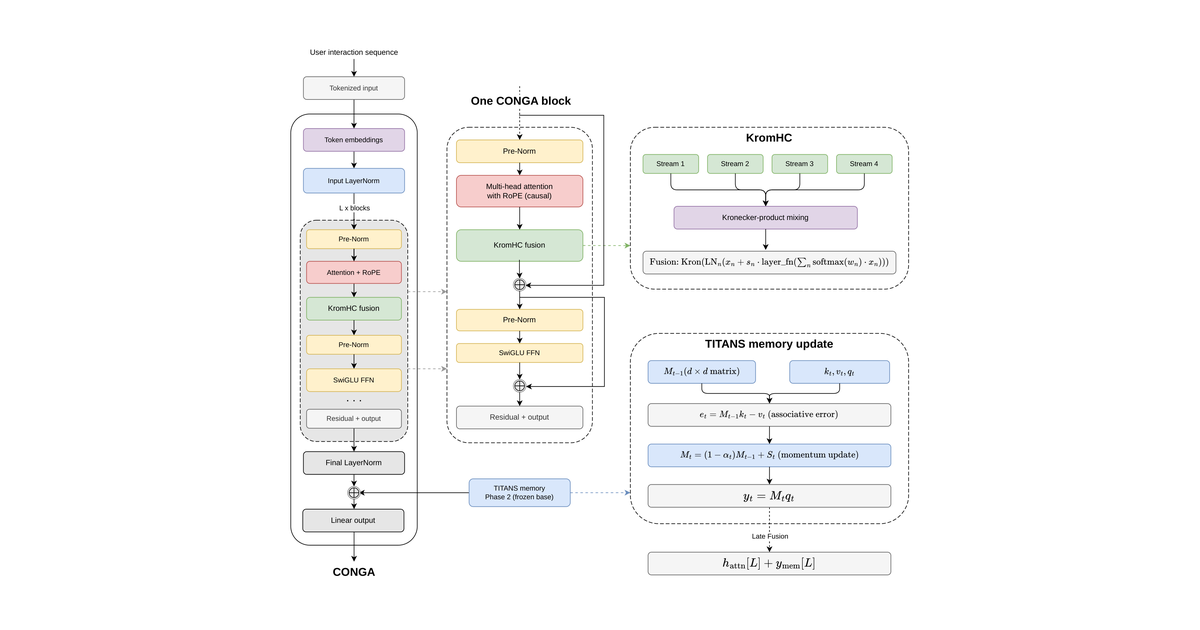
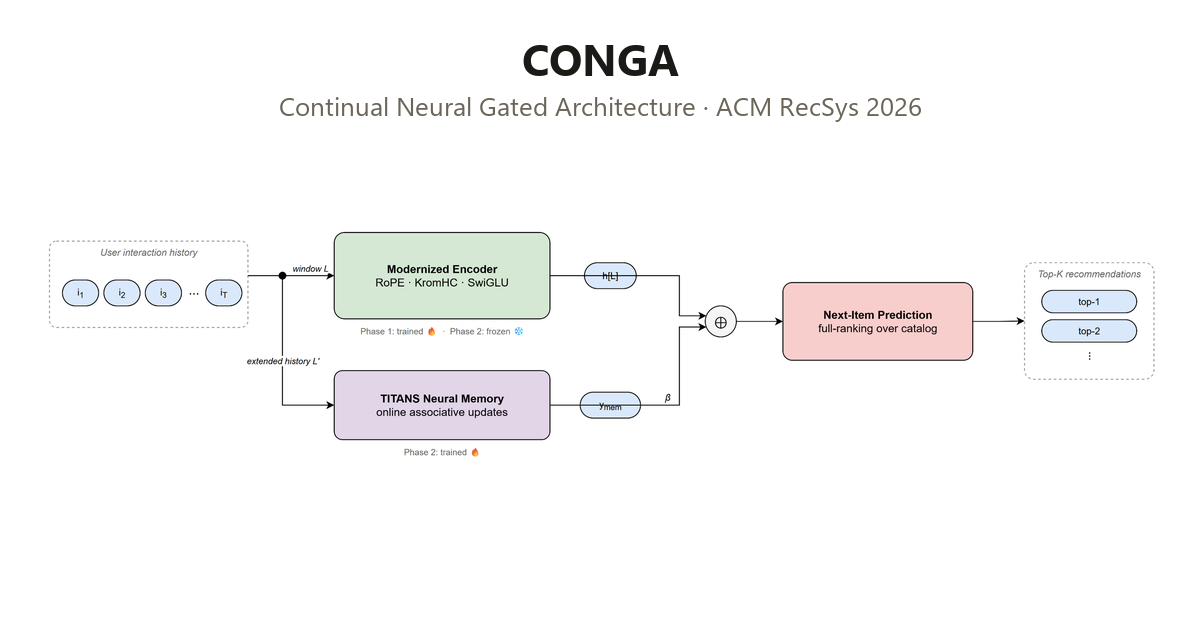
Add simple teaser figure, styled charts, compact per-dataset result tables

diff --git a/index.html b/index.html
@@ -64,6 +64,22 @@
   <!-- Critical CSS - Load synchronously -->
   <link rel="stylesheet" href="static/css/bulma.min.css">
   <link rel="stylesheet" href="static/css/index.css">
+  <style>
+    /* Anthropic-style result tables */
+    .table-clean { background: #faf9f5; font-size: .9rem; border-radius: 10px; overflow: hidden; }
+    .table-clean th, .table-clean td { border: none !important; border-bottom: 1px solid #ece7db !important; padding: .5em .7em; }
+    .table-clean thead th { color: #6b6558; font-weight: 600; border-bottom: 2px solid #d8d2c4 !important; background: transparent; }
+    .table-clean tbody tr:last-child td { border-bottom: none !important; }
+    .table-clean tr.conga-row td { background: #f7e8df; font-weight: 600; }
+    .table-clean tr.conga-row td:first-child { color: #c65a35; }
+    .dataset-card { background: #faf9f5; border: 1px solid #ece7db; border-radius: 12px; padding: 1.1rem 1.2rem; height: 100%; }
+    .dataset-card h4 { margin-bottom: .2rem !important; }
+    .dataset-card .regime { color: #6b6558; font-size: .82rem; margin-bottom: .6rem; }
+    .dataset-card .table-clean { font-size: .8rem; }
+    .dataset-card .table-clean th, .dataset-card .table-clean td { padding: .42em .45em; white-space: nowrap; }
+    .dataset-card small { font-size: .68em; color: #8a8578; }
+    .delta-row td { color: #c65a35; font-size: .72rem; font-weight: 600; background: transparent !important; }
+  </style>
 
   <!-- Non-critical CSS - Load asynchronously -->
   <link rel="preload" href="static/css/bulma-carousel.min.css" as="style" onload="this.onload=null;this.rel='stylesheet'">
@@ -199,7 +215,7 @@
 <section class="hero teaser">
   <div class="container is-max-desktop">
     <div class="hero-body">
-      <img src="static/images/architecture.png" alt="CONGA architecture overview: RoPE, KromHC multi-stream fusion, and TITANS two-phase memory on a modernized SASRec backbone." style="width:100%; height:auto;">
+      <img src="static/images/conga-overview.png" alt="CONGA pipeline: user interaction history feeds a modernized encoder (RoPE, KromHC, SwiGLU) and a TITANS neural memory; their outputs are fused for next-item prediction." style="width:100%; height:auto;">
       <h2 class="subtitle has-text-centered">
         CONGA layers three contributions on a modernized SASRec backbone &mdash; <b>RoPE</b> for norm-preserving positional encoding, <b>KromHC</b> multi-stream fusion with data-adaptive stream selection, and a <b>TITANS</b> two-phase neural memory &mdash; achieving up to <b>+18.7% HR@5</b> over the strongest baseline on ML-1M.
       </h2>
@@ -262,6 +278,10 @@
         </div>
         <div id="method-carousel" class="carousel results-carousel">
           <div class="item">
+            <img src="static/images/architecture.png" alt="Full CONGA architecture as presented in the paper" loading="lazy"/>
+            <h2 class="subtitle has-text-centered">Full CONGA architecture as presented in the paper: encoder stack, KromHC internals, and TITANS memory update.</h2>
+          </div>
+          <div class="item">
             <img src="static/images/fig-pipeline.png" alt="CONGA training pipeline overview" loading="lazy"/>
             <h2 class="subtitle has-text-centered">End-to-end pipeline: modernized SASRec backbone with RoPE, KromHC, and SwiGLU, followed by two-phase TITANS training.</h2>
           </div>
@@ -291,67 +311,107 @@
       <div class="column is-four-fifths">
         <h2 class="title is-3">Results</h2>
         <div class="content">
-          <p>Evaluated under full-ranking (no negative sampling) against nine baselines, CONGA ranks first on <b>14 of 16</b> accuracy metrics. <b>Bold</b> = best, <u>underline</u> = second best; &Delta; = relative gain of CONGA over the strongest baseline:</p>
+          <p>Evaluated under full-ranking (no negative sampling) against nine baselines, CONGA ranks first on <b>14 of 16</b> accuracy metrics:</p>
 
-          <div class="table-container">
-            <table class="table is-bordered is-striped is-fullwidth has-text-right" style="font-size: 0.85rem;">
-              <thead>
-                <tr>
-                  <th class="has-text-left">Dataset</th>
-                  <th class="has-text-left">Metric</th>
-                  <th>Caser<br><small>WSDM'18</small></th>
-                  <th>GRU4Rec<br><small>ICLR'16</small></th>
-                  <th>SASRec<br><small>ICDM'18</small></th>
-                  <th>BERT4Rec<br><small>CIKM'19</small></th>
-                  <th>FMLPRec<br><small>WWW'22</small></th>
-                  <th>DuoRec<br><small>WSDM'22</small></th>
-                  <th>FEARec<br><small>SIGIR'23</small></th>
-                  <th>BSARec<br><small>AAAI'24</small></th>
-                  <th>WEARec<br><small>arXiv'25</small></th>
-                  <th style="background:#fff8e1;">CONGA<br><small>ours</small></th>
-                  <th>&Delta;</th>
-                </tr>
-              </thead>
-              <tbody>
-                <tr><td rowspan="4" class="has-text-left"><b>Beauty</b></td>
-                    <td class="has-text-left">HR@5</td><td>0.0125</td><td>0.0169</td><td>0.0340</td><td>0.0469</td><td>0.0346</td><td><u>0.0707</u></td><td>0.0706</td><td>0.0694</td><td>0.0691</td><td style="background:#fff8e1;"><b>0.0718</b></td><td>+1.56%</td></tr>
-                <tr><td class="has-text-left">HR@10</td><td>0.0225</td><td>0.0304</td><td>0.0531</td><td>0.0705</td><td>0.0559</td><td>0.0965</td><td><b>0.0982</b></td><td>0.0971</td><td>0.0948</td><td style="background:#fff8e1;"><u>0.0965</u></td><td class="has-text-danger">-1.73%</td></tr>
-                <tr><td class="has-text-left">NDCG@5</td><td>0.0076</td><td>0.0104</td><td>0.0221</td><td>0.0311</td><td>0.0222</td><td>0.0501</td><td><u>0.0512</u></td><td>0.0495</td><td>0.0490</td><td style="background:#fff8e1;"><b>0.0515</b></td><td>+0.59%</td></tr>
-                <tr><td class="has-text-left">NDCG@10</td><td>0.0108</td><td>0.0147</td><td>0.0283</td><td>0.0387</td><td>0.0291</td><td>0.0584</td><td><b>0.0601</b></td><td>0.0585</td><td>0.0573</td><td style="background:#fff8e1;"><u>0.0594</u></td><td class="has-text-danger">-1.16%</td></tr>
-                <tr><td rowspan="4" class="has-text-left"><b>Yelp</b></td>
-                    <td class="has-text-left">HR@5</td><td>0.0117</td><td>0.0130</td><td>0.0149</td><td>0.0256</td><td>0.0159</td><td>0.0271</td><td>0.0262</td><td>0.0453</td><td><u>0.0492</u></td><td style="background:#fff8e1;"><b>0.0551</b></td><td>+11.99%</td></tr>
-                <tr><td class="has-text-left">HR@10</td><td>0.0197</td><td>0.0221</td><td>0.0249</td><td>0.0433</td><td>0.0287</td><td>0.0442</td><td>0.0437</td><td>0.0724</td><td><u>0.0781</u></td><td style="background:#fff8e1;"><b>0.0901</b></td><td>+15.36%</td></tr>
-                <tr><td class="has-text-left">NDCG@5</td><td>0.0070</td><td>0.0080</td><td>0.0091</td><td>0.0159</td><td>0.0100</td><td>0.0170</td><td>0.0165</td><td>0.0293</td><td><u>0.0320</u></td><td style="background:#fff8e1;"><b>0.0355</b></td><td>+10.94%</td></tr>
-                <tr><td class="has-text-left">NDCG@10</td><td>0.0096</td><td>0.0109</td><td>0.0123</td><td>0.0216</td><td>0.0142</td><td>0.0225</td><td>0.0221</td><td>0.0380</td><td><u>0.0412</u></td><td style="background:#fff8e1;"><b>0.0467</b></td><td>+13.35%</td></tr>
-                <tr><td rowspan="4" class="has-text-left"><b>ML-1M</b></td>
-                    <td class="has-text-left">HR@5</td><td>0.0927</td><td>0.1005</td><td>0.1374</td><td>0.1512</td><td>0.1316</td><td>0.1838</td><td>0.1834</td><td>0.1944</td><td><u>0.2051</u></td><td style="background:#fff8e1;"><b>0.2435</b></td><td>+18.72%</td></tr>
-                <tr><td class="has-text-left">HR@10</td><td>0.1556</td><td>0.1657</td><td>0.2137</td><td>0.2346</td><td>0.2065</td><td>0.2704</td><td>0.2705</td><td>0.2757</td><td><u>0.2987</u></td><td style="background:#fff8e1;"><b>0.3402</b></td><td>+13.89%</td></tr>
-                <tr><td class="has-text-left">NDCG@5</td><td>0.0592</td><td>0.0619</td><td>0.0873</td><td>0.1021</td><td>0.0846</td><td>0.1252</td><td>0.1236</td><td>0.1306</td><td><u>0.1393</u></td><td style="background:#fff8e1;"><b>0.1700</b></td><td>+22.04%</td></tr>
-                <tr><td class="has-text-left">NDCG@10</td><td>0.0795</td><td>0.0828</td><td>0.1116</td><td>0.1289</td><td>0.1087</td><td>0.1530</td><td>0.1516</td><td>0.1568</td><td><u>0.1694</u></td><td style="background:#fff8e1;"><b>0.2012</b></td><td>+18.77%</td></tr>
-                <tr><td rowspan="4" class="has-text-left"><b>Steam</b></td>
-                    <td class="has-text-left">HR@5</td><td>0.0304</td><td>0.0606</td><td>0.0683</td><td>0.0645</td><td>0.0464</td><td><u>0.0754</u></td><td>0.0701</td><td>0.0694</td><td>0.0700</td><td style="background:#fff8e1;"><b>0.0779</b></td><td>+3.32%</td></tr>
-                <tr><td class="has-text-left">HR@10</td><td>0.0533</td><td>0.1021</td><td>0.1105</td><td>0.1054</td><td>0.0772</td><td><u>0.1201</u></td><td>0.1108</td><td>0.1101</td><td>0.1101</td><td style="background:#fff8e1;"><b>0.1275</b></td><td>+6.16%</td></tr>
-                <tr><td class="has-text-left">NDCG@5</td><td>0.0190</td><td>0.0380</td><td>0.0431</td><td>0.0417</td><td>0.0300</td><td><u>0.0503</u></td><td>0.0455</td><td>0.0455</td><td>0.0459</td><td style="background:#fff8e1;"><b>0.0513</b></td><td>+1.99%</td></tr>
-                <tr><td class="has-text-left">NDCG@10</td><td>0.0263</td><td>0.0514</td><td>0.0567</td><td>0.0548</td><td>0.0398</td><td><u>0.0646</u></td><td>0.0584</td><td>0.0585</td><td>0.0588</td><td style="background:#fff8e1;"><b>0.0672</b></td><td>+4.02%</td></tr>
-              </tbody>
-            </table>
-          </div>
+          <img src="static/images/chart-ndcg10.png" alt="NDCG@10 comparison across ML-1M, Yelp, Steam, and Beauty: CONGA leads on three of four datasets" loading="lazy" style="width:100%; height:auto;"/>
 
-          <div class="columns is-vcentered">
-            <div class="column has-text-centered">
-              <img src="static/images/length-comparison.png" alt="Performance comparison across sequence lengths" loading="lazy" style="height:320px; width:auto; max-width:100%; object-fit:contain;"/>
-              <p class="is-size-7 has-text-grey">NDCG@10 across user-history length bins.</p>
+          <p style="margin-top:1.5rem;">Full results per dataset (<b>bold</b> = best, <u>underline</u> = second best; &Delta; = relative gain of CONGA over the strongest baseline):</p>
+
+          <div class="columns is-multiline">
+            <div class="column is-half">
+              <div class="dataset-card">
+                <h4 class="title is-5">ML-1M</h4>
+                <p class="regime">dense, long-history &middot; avg. len. 165.6</p>
+                <table class="table is-fullwidth table-clean has-text-right">
+                  <thead><tr><th class="has-text-left">Model</th><th>HR@5</th><th>HR@10</th><th>N@5</th><th>N@10</th></tr></thead>
+                  <tbody>
+                    <tr><td class="has-text-left">Caser <small>[WSDM'18]</small></td><td>0.0927</td><td>0.1556</td><td>0.0592</td><td>0.0795</td></tr>
+                    <tr><td class="has-text-left">GRU4Rec <small>[ICLR'16]</small></td><td>0.1005</td><td>0.1657</td><td>0.0619</td><td>0.0828</td></tr>
+                    <tr><td class="has-text-left">SASRec <small>[ICDM'18]</small></td><td>0.1374</td><td>0.2137</td><td>0.0873</td><td>0.1116</td></tr>
+                    <tr><td class="has-text-left">BERT4Rec <small>[CIKM'19]</small></td><td>0.1512</td><td>0.2346</td><td>0.1021</td><td>0.1289</td></tr>
+                    <tr><td class="has-text-left">FMLPRec <small>[WWW'22]</small></td><td>0.1316</td><td>0.2065</td><td>0.0846</td><td>0.1087</td></tr>
+                    <tr><td class="has-text-left">DuoRec <small>[WSDM'22]</small></td><td>0.1838</td><td>0.2704</td><td>0.1252</td><td>0.1530</td></tr>
+                    <tr><td class="has-text-left">FEARec <small>[SIGIR'23]</small></td><td>0.1834</td><td>0.2705</td><td>0.1236</td><td>0.1516</td></tr>
+                    <tr><td class="has-text-left">BSARec <small>[AAAI'24]</small></td><td>0.1944</td><td>0.2757</td><td>0.1306</td><td>0.1568</td></tr>
+                    <tr><td class="has-text-left">WEARec <small>[arXiv'25]</small></td><td><u>0.2051</u></td><td><u>0.2987</u></td><td><u>0.1393</u></td><td><u>0.1694</u></td></tr>
+                    <tr class="conga-row"><td class="has-text-left">CONGA (ours)</td><td><b>0.2435</b></td><td><b>0.3402</b></td><td><b>0.1700</b></td><td><b>0.2012</b></td></tr>
+                    <tr class="delta-row"><td class="has-text-left">&Delta; vs best baseline</td><td>+18.72%</td><td>+13.89%</td><td>+22.04%</td><td>+18.77%</td></tr>
+                  </tbody>
+                </table>
+              </div>
             </div>
-            <div class="column has-text-centered">
-              <img src="static/images/model-comparison.png" alt="Performance comparison across baseline models" loading="lazy" style="height:320px; width:auto; max-width:100%; object-fit:contain;"/>
-              <p class="is-size-7 has-text-grey">Accuracy comparison against baseline models.</p>
+            <div class="column is-half">
+              <div class="dataset-card">
+                <h4 class="title is-5">Yelp</h4>
+                <p class="regime">sparse, short-history &middot; avg. len. 10.4</p>
+                <table class="table is-fullwidth table-clean has-text-right">
+                  <thead><tr><th class="has-text-left">Model</th><th>HR@5</th><th>HR@10</th><th>N@5</th><th>N@10</th></tr></thead>
+                  <tbody>
+                    <tr><td class="has-text-left">Caser <small>[WSDM'18]</small></td><td>0.0117</td><td>0.0197</td><td>0.0070</td><td>0.0096</td></tr>
+                    <tr><td class="has-text-left">GRU4Rec <small>[ICLR'16]</small></td><td>0.0130</td><td>0.0221</td><td>0.0080</td><td>0.0109</td></tr>
+                    <tr><td class="has-text-left">SASRec <small>[ICDM'18]</small></td><td>0.0149</td><td>0.0249</td><td>0.0091</td><td>0.0123</td></tr>
+                    <tr><td class="has-text-left">BERT4Rec <small>[CIKM'19]</small></td><td>0.0256</td><td>0.0433</td><td>0.0159</td><td>0.0216</td></tr>
+                    <tr><td class="has-text-left">FMLPRec <small>[WWW'22]</small></td><td>0.0159</td><td>0.0287</td><td>0.0100</td><td>0.0142</td></tr>
+                    <tr><td class="has-text-left">DuoRec <small>[WSDM'22]</small></td><td>0.0271</td><td>0.0442</td><td>0.0170</td><td>0.0225</td></tr>
+                    <tr><td class="has-text-left">FEARec <small>[SIGIR'23]</small></td><td>0.0262</td><td>0.0437</td><td>0.0165</td><td>0.0221</td></tr>
+                    <tr><td class="has-text-left">BSARec <small>[AAAI'24]</small></td><td>0.0453</td><td>0.0724</td><td>0.0293</td><td>0.0380</td></tr>
+                    <tr><td class="has-text-left">WEARec <small>[arXiv'25]</small></td><td><u>0.0492</u></td><td><u>0.0781</u></td><td><u>0.0320</u></td><td><u>0.0412</u></td></tr>
+                    <tr class="conga-row"><td class="has-text-left">CONGA (ours)</td><td><b>0.0551</b></td><td><b>0.0901</b></td><td><b>0.0355</b></td><td><b>0.0467</b></td></tr>
+                    <tr class="delta-row"><td class="has-text-left">&Delta; vs best baseline</td><td>+11.99%</td><td>+15.36%</td><td>+10.94%</td><td>+13.35%</td></tr>
+                  </tbody>
+                </table>
+              </div>
+            </div>
+            <div class="column is-half">
+              <div class="dataset-card">
+                <h4 class="title is-5">Steam</h4>
+                <p class="regime">sparse &middot; avg. len. 14.2</p>
+                <table class="table is-fullwidth table-clean has-text-right">
+                  <thead><tr><th class="has-text-left">Model</th><th>HR@5</th><th>HR@10</th><th>N@5</th><th>N@10</th></tr></thead>
+                  <tbody>
+                    <tr><td class="has-text-left">Caser <small>[WSDM'18]</small></td><td>0.0304</td><td>0.0533</td><td>0.0190</td><td>0.0263</td></tr>
+                    <tr><td class="has-text-left">GRU4Rec <small>[ICLR'16]</small></td><td>0.0606</td><td>0.1021</td><td>0.0380</td><td>0.0514</td></tr>
+                    <tr><td class="has-text-left">SASRec <small>[ICDM'18]</small></td><td>0.0683</td><td>0.1105</td><td>0.0431</td><td>0.0567</td></tr>
+                    <tr><td class="has-text-left">BERT4Rec <small>[CIKM'19]</small></td><td>0.0645</td><td>0.1054</td><td>0.0417</td><td>0.0548</td></tr>
+                    <tr><td class="has-text-left">FMLPRec <small>[WWW'22]</small></td><td>0.0464</td><td>0.0772</td><td>0.0300</td><td>0.0398</td></tr>
+                    <tr><td class="has-text-left">DuoRec <small>[WSDM'22]</small></td><td><u>0.0754</u></td><td><u>0.1201</u></td><td><u>0.0503</u></td><td><u>0.0646</u></td></tr>
+                    <tr><td class="has-text-left">FEARec <small>[SIGIR'23]</small></td><td>0.0701</td><td>0.1108</td><td>0.0455</td><td>0.0584</td></tr>
+                    <tr><td class="has-text-left">BSARec <small>[AAAI'24]</small></td><td>0.0694</td><td>0.1101</td><td>0.0455</td><td>0.0585</td></tr>
+                    <tr><td class="has-text-left">WEARec <small>[arXiv'25]</small></td><td>0.0700</td><td>0.1101</td><td>0.0459</td><td>0.0588</td></tr>
+                    <tr class="conga-row"><td class="has-text-left">CONGA (ours)</td><td><b>0.0779</b></td><td><b>0.1275</b></td><td><b>0.0513</b></td><td><b>0.0672</b></td></tr>
+                    <tr class="delta-row"><td class="has-text-left">&Delta; vs best baseline</td><td>+3.32%</td><td>+6.16%</td><td>+1.99%</td><td>+4.02%</td></tr>
+                  </tbody>
+                </table>
+              </div>
+            </div>
+            <div class="column is-half">
+              <div class="dataset-card">
+                <h4 class="title is-5">Beauty</h4>
+                <p class="regime">sparse, very short-history &middot; avg. len. 8.9</p>
+                <table class="table is-fullwidth table-clean has-text-right">
+                  <thead><tr><th class="has-text-left">Model</th><th>HR@5</th><th>HR@10</th><th>N@5</th><th>N@10</th></tr></thead>
+                  <tbody>
+                    <tr><td class="has-text-left">Caser <small>[WSDM'18]</small></td><td>0.0125</td><td>0.0225</td><td>0.0076</td><td>0.0108</td></tr>
+                    <tr><td class="has-text-left">GRU4Rec <small>[ICLR'16]</small></td><td>0.0169</td><td>0.0304</td><td>0.0104</td><td>0.0147</td></tr>
+                    <tr><td class="has-text-left">SASRec <small>[ICDM'18]</small></td><td>0.0340</td><td>0.0531</td><td>0.0221</td><td>0.0283</td></tr>
+                    <tr><td class="has-text-left">BERT4Rec <small>[CIKM'19]</small></td><td>0.0469</td><td>0.0705</td><td>0.0311</td><td>0.0387</td></tr>
+                    <tr><td class="has-text-left">FMLPRec <small>[WWW'22]</small></td><td>0.0346</td><td>0.0559</td><td>0.0222</td><td>0.0291</td></tr>
+                    <tr><td class="has-text-left">DuoRec <small>[WSDM'22]</small></td><td><u>0.0707</u></td><td>0.0965</td><td>0.0501</td><td>0.0584</td></tr>
+                    <tr><td class="has-text-left">FEARec <small>[SIGIR'23]</small></td><td>0.0706</td><td><b>0.0982</b></td><td><u>0.0512</u></td><td><b>0.0601</b></td></tr>
+                    <tr><td class="has-text-left">BSARec <small>[AAAI'24]</small></td><td>0.0694</td><td>0.0971</td><td>0.0495</td><td>0.0585</td></tr>
+                    <tr><td class="has-text-left">WEARec <small>[arXiv'25]</small></td><td>0.0691</td><td>0.0948</td><td>0.0490</td><td>0.0573</td></tr>
+                    <tr class="conga-row"><td class="has-text-left">CONGA (ours)</td><td><b>0.0718</b></td><td><u>0.0965</u></td><td><b>0.0515</b></td><td><u>0.0594</u></td></tr>
+                    <tr class="delta-row"><td class="has-text-left">&Delta; vs best baseline</td><td>+1.56%</td><td class="has-text-danger">-1.73%</td><td>+0.59%</td><td class="has-text-danger">-1.16%</td></tr>
+                  </tbody>
+                </table>
+              </div>
             </div>
           </div>
 
           <h3 class="title is-4">CUDA Kernels</h3>
           <p>Four components are accelerated with custom fused CUDA kernels (measured at B=128, L=300, float32, RTX 5090):</p>
           <div class="table-container">
-            <table class="table is-bordered is-striped is-fullwidth">
+            <table class="table is-fullwidth table-clean">
               <thead>
                 <tr><th>Kernel</th><th>Forward speedup</th><th>Backward speedup</th></tr>
               </thead>
@@ -368,7 +428,7 @@
           <h3 class="title is-4">Ablation Study</h3>
           <p>Each row adds one component to the previous. A0 is a modernized SASRec encoder with RoPE only, isolating the incremental contribution of KromHC, SwiGLU, and TITANS:</p>
           <div class="table-container">
-            <table class="table is-bordered is-striped is-fullwidth">
+            <table class="table is-fullwidth table-clean">
               <thead>
                 <tr><th>ID</th><th>Configuration</th><th>ML-1M HR@5</th><th>ML-1M NDCG@10</th><th>Yelp HR@5</th><th>Yelp NDCG@10</th></tr>
               </thead>
@@ -384,7 +444,7 @@
           <h3 class="title is-4">Robustness &amp; Diversity</h3>
           <p>Diversity and robustness metrics on ML-1M (top-10). Repetition Rate is exactly 0.00% for both variants, confirming correct interaction-masking across all 6,040 &times; 10 recommendation slots:</p>
           <div class="table-container">
-            <table class="table is-bordered is-striped is-fullwidth">
+            <table class="table is-fullwidth table-clean">
               <thead>
                 <tr><th>Metric</th><th>CONGA-base</th><th>CONGA-full</th><th>&Delta;</th></tr>
               </thead>
@@ -400,8 +460,9 @@
 
           <h3 class="title is-4">Long-History User Analysis</h3>
           <p>NDCG@10 by user history length on ML-1M (6,040 users). The relative gain of TITANS grows <b>monotonically</b> with history length, directly validating the two-phase memory design:</p>
+          <img src="static/images/chart-long-history.png" alt="TITANS gain grows monotonically with user history length on ML-1M" loading="lazy" style="width:100%; max-width:860px; height:auto; display:block; margin:0 auto 1.2rem;"/>
           <div class="table-container">
-            <table class="table is-bordered is-striped is-fullwidth">
+            <table class="table is-fullwidth table-clean">
               <thead>
                 <tr><th>Group</th><th>Users</th><th>w/o TITANS</th><th>CONGA-full</th><th>&Delta;%</th></tr>
               </thead>
